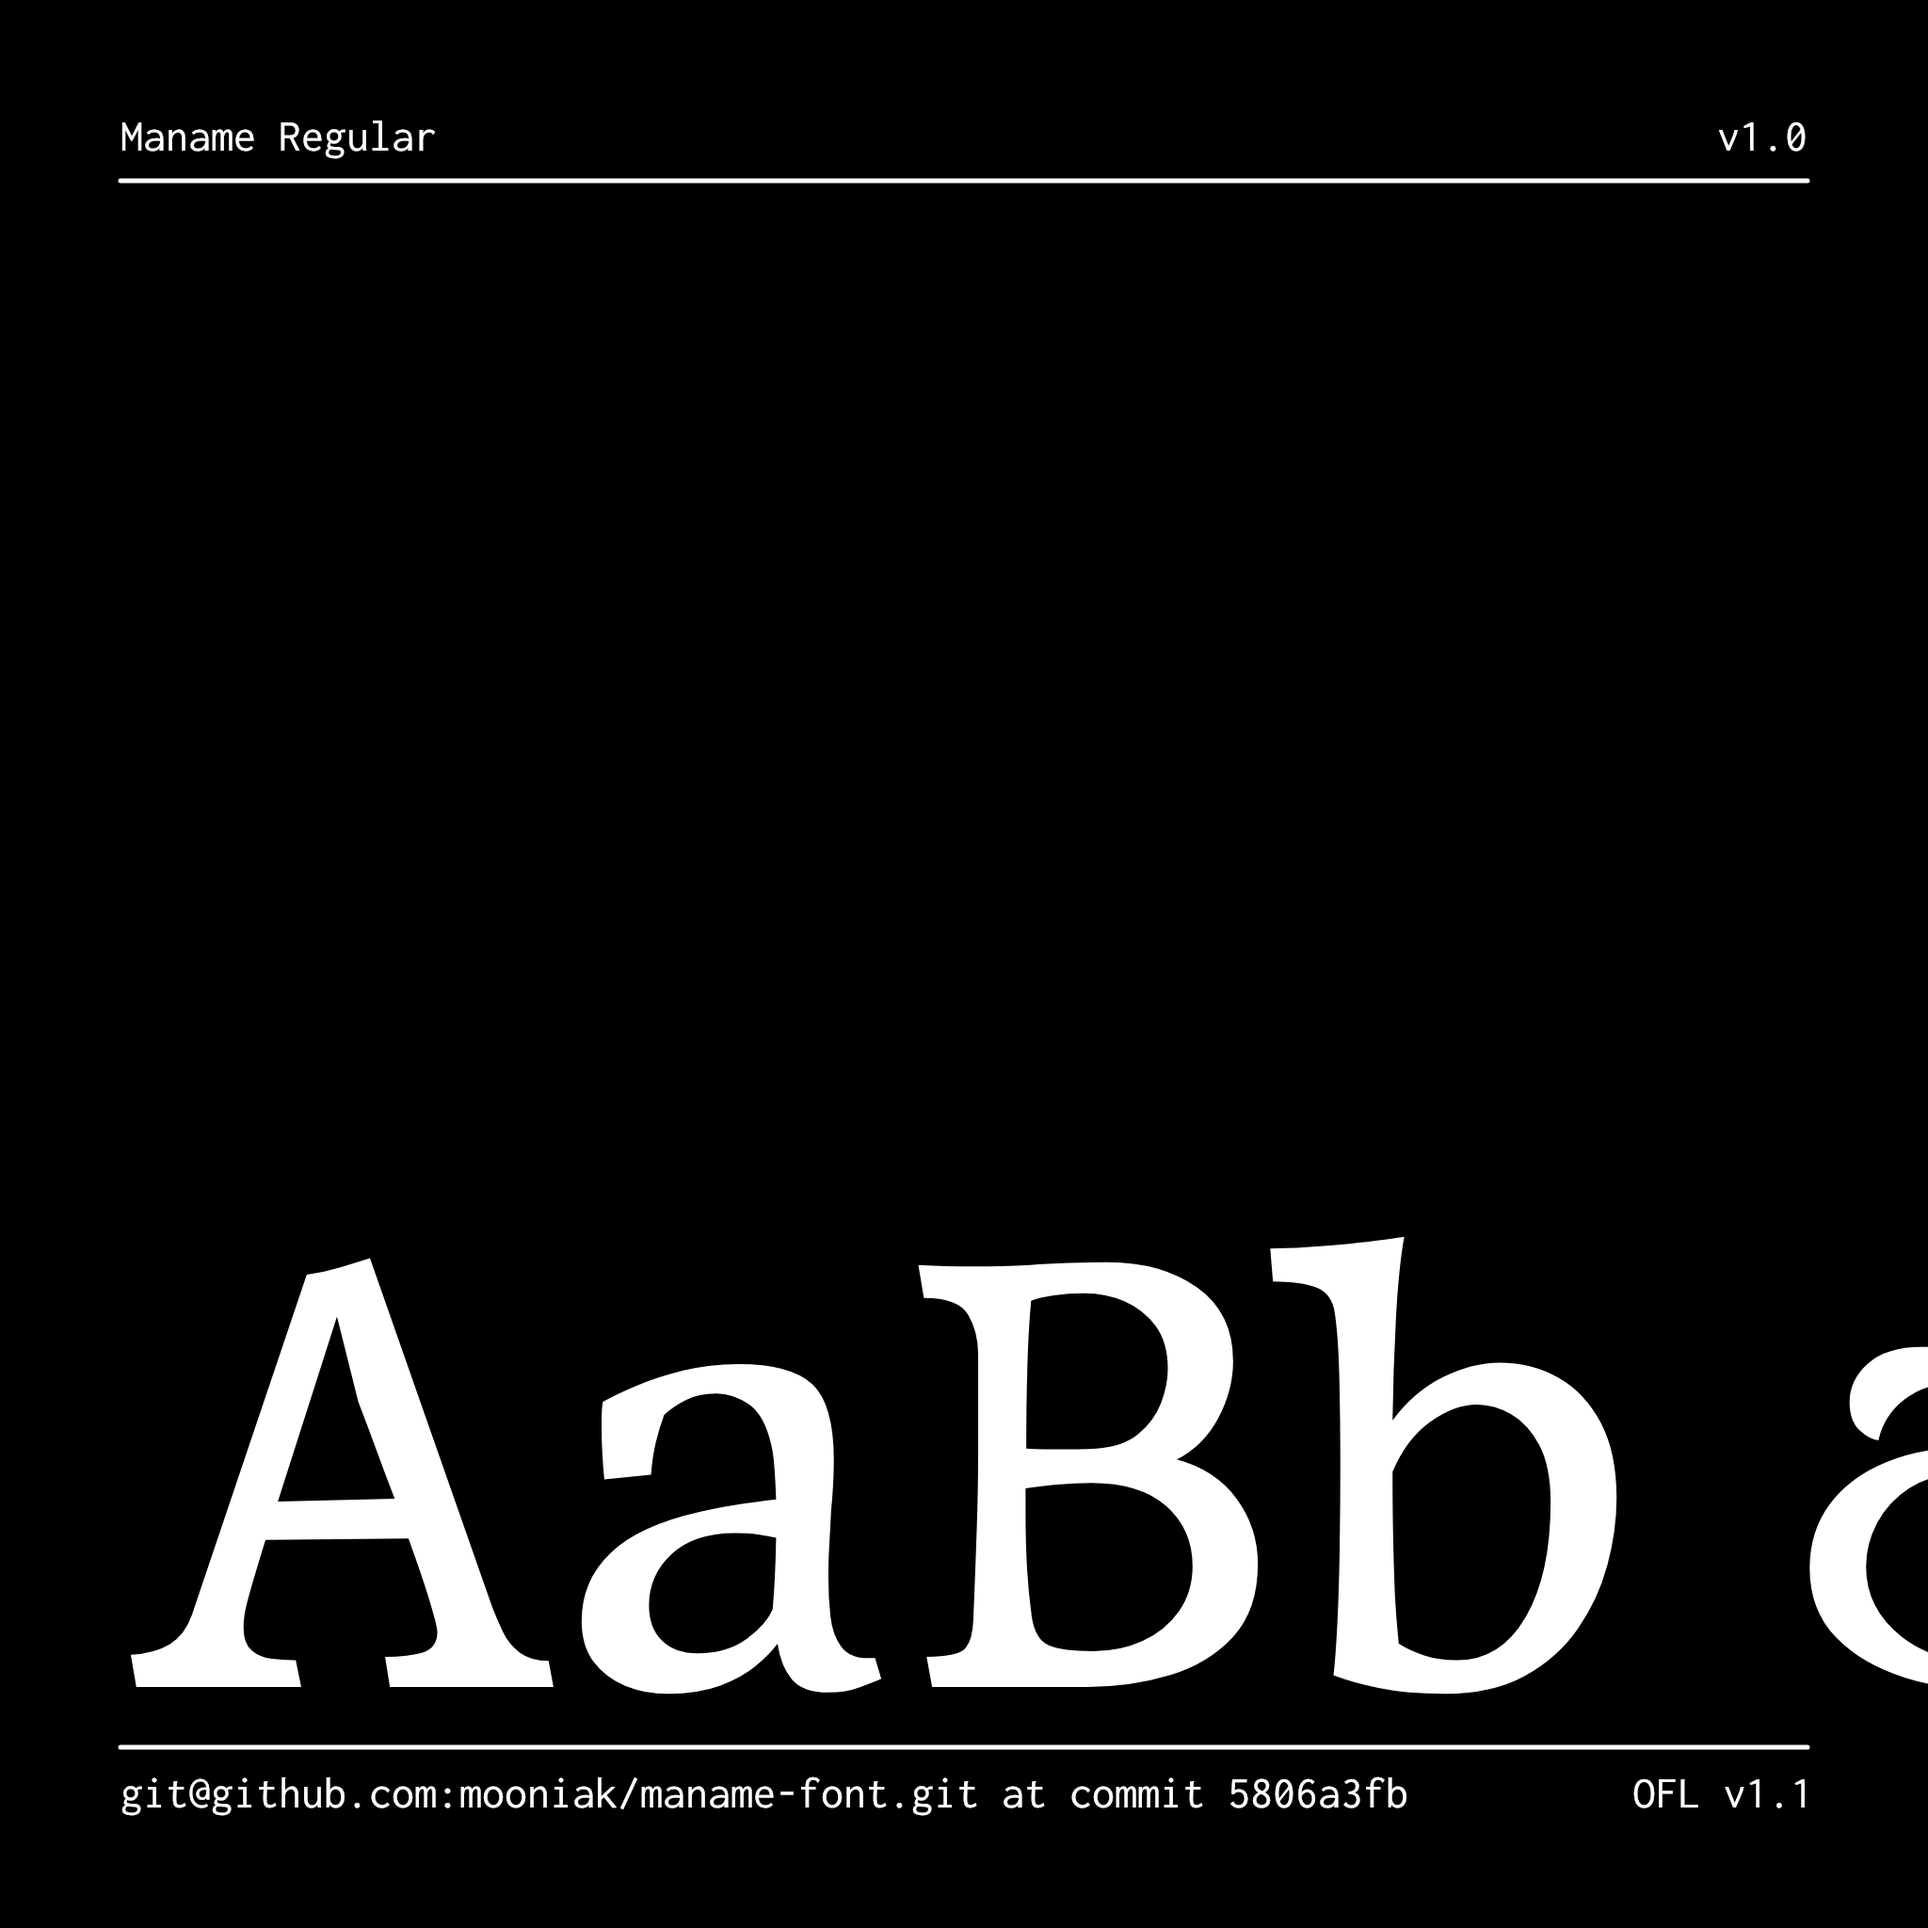
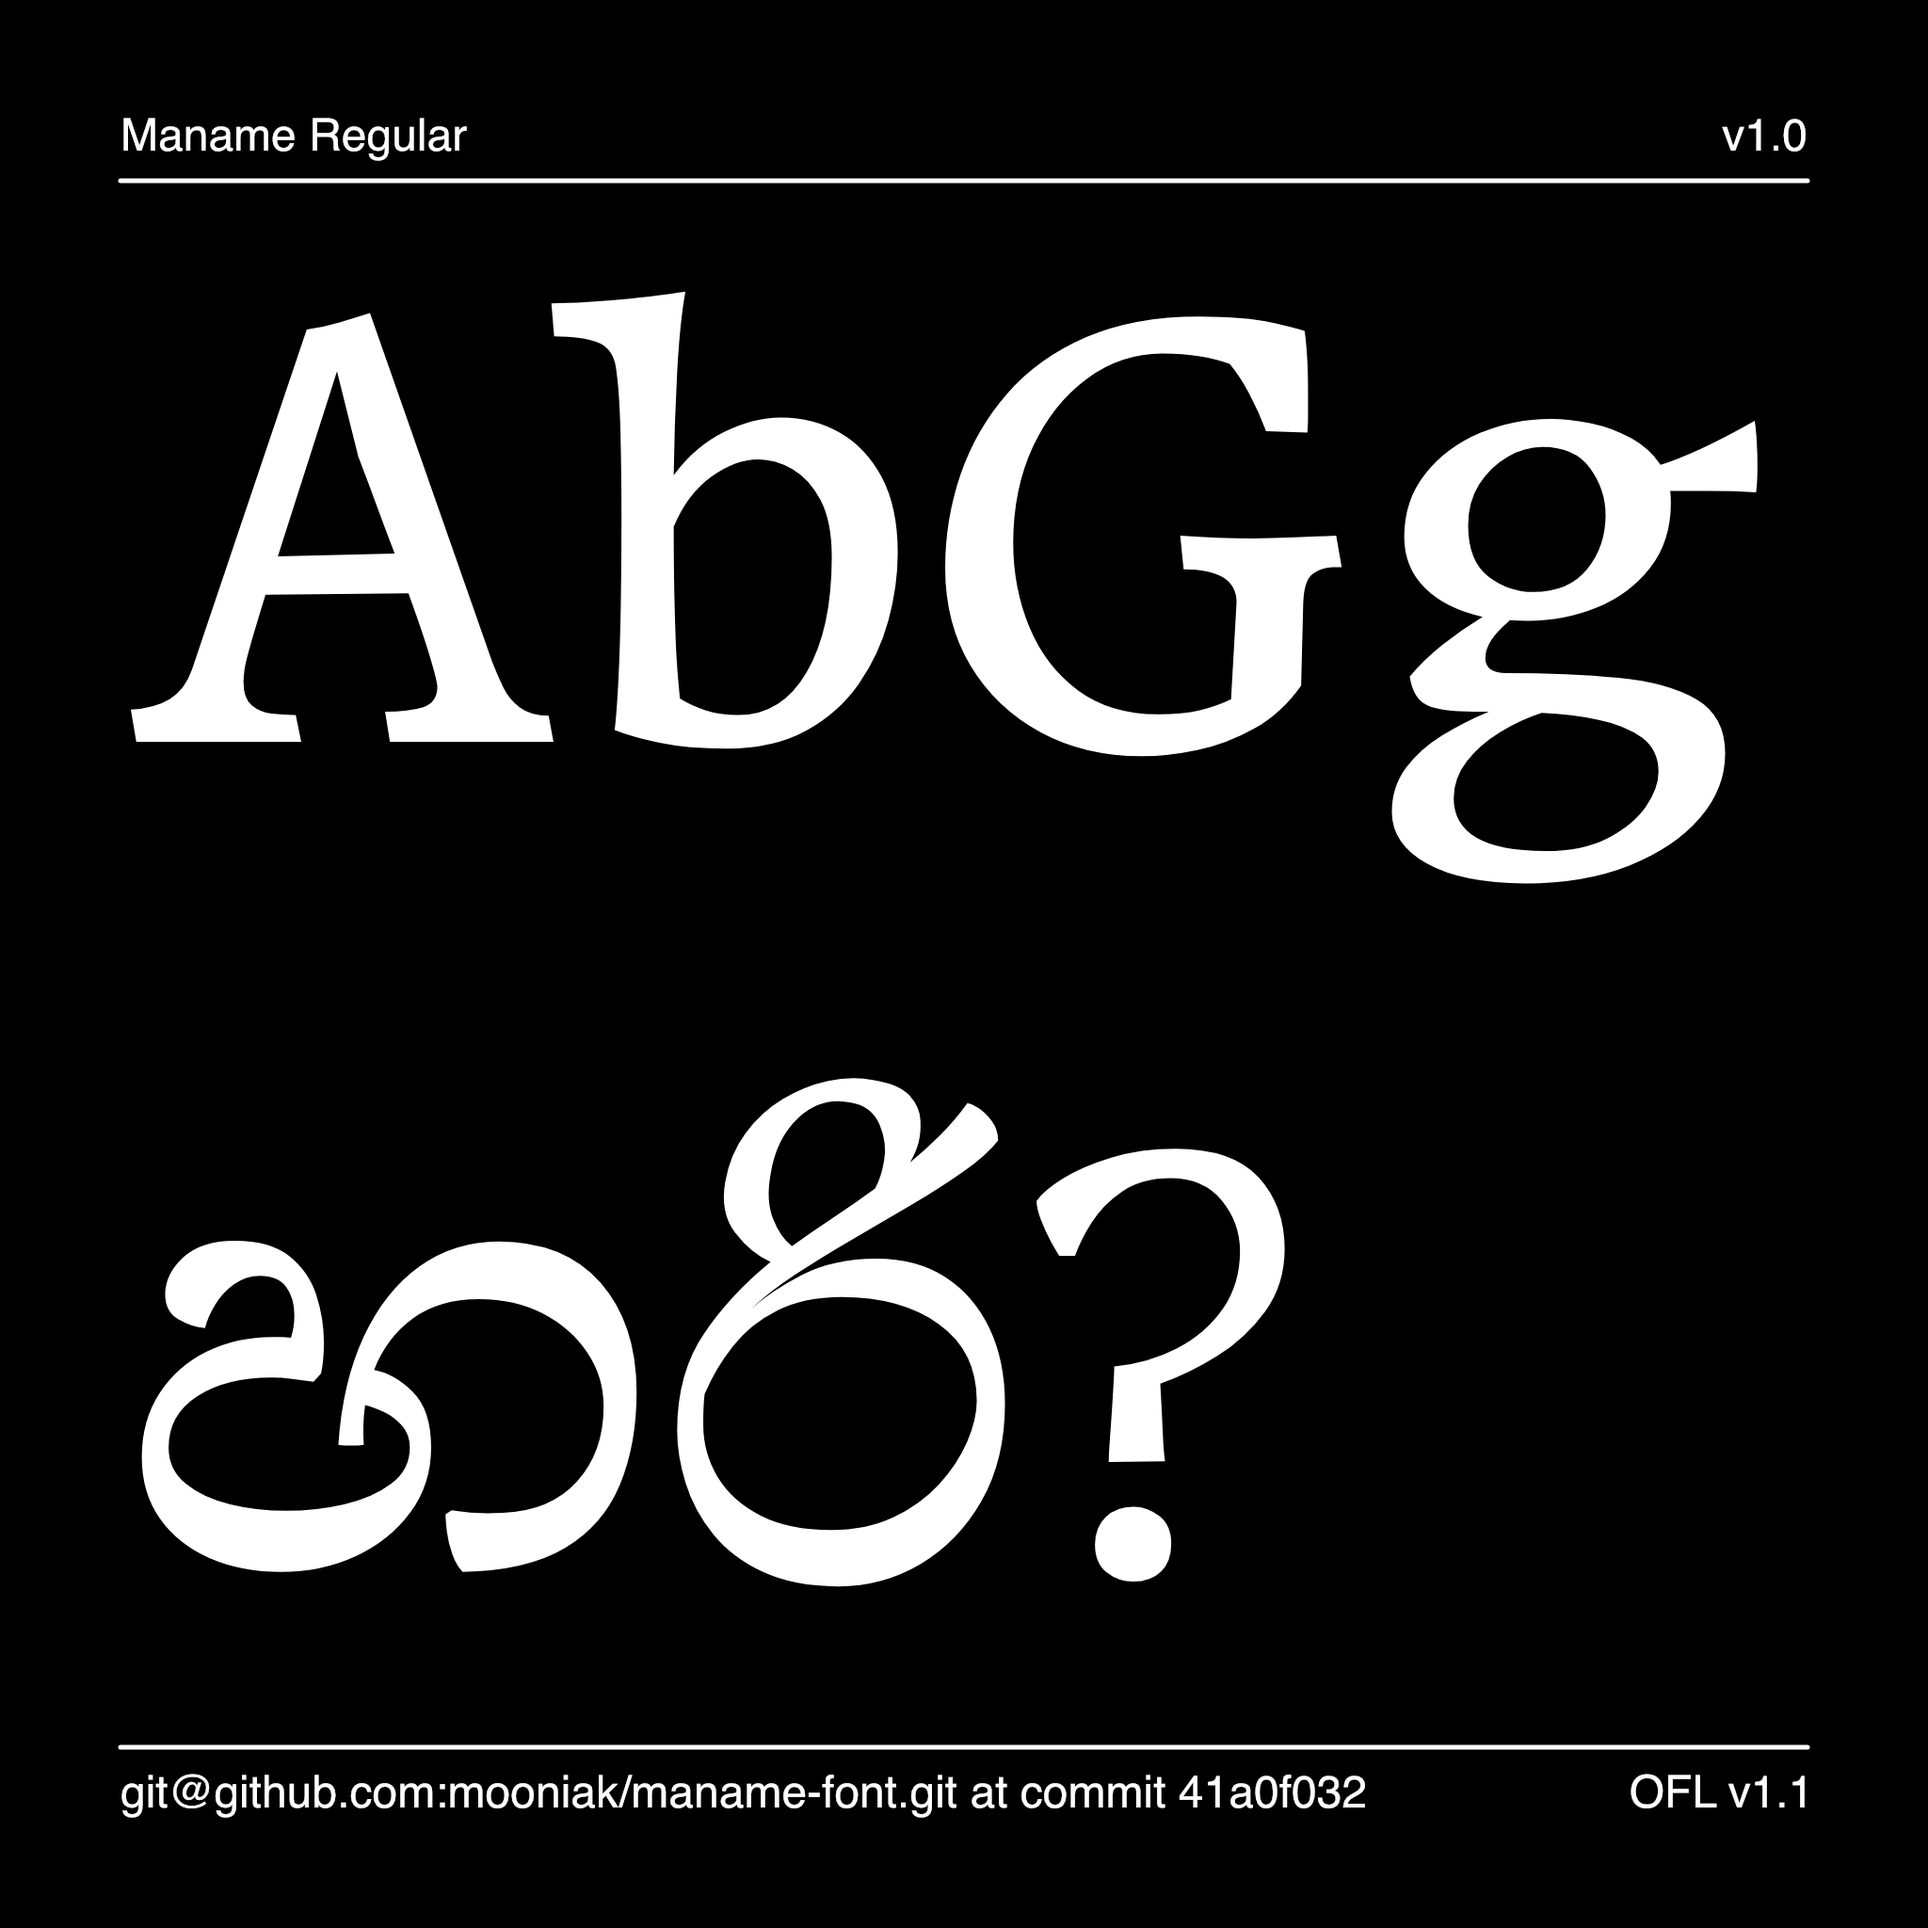
Update README and images

diff --git a/documentation/image1.py b/documentation/image1.py
@@ -18,13 +18,17 @@ import argparse
 WIDTH, HEIGHT, MARGIN, FRAMES = 2048, 2048, 128, 1
 FONT_PATH = "fonts/ttf/Maname-Regular.ttf"
 FONT_LICENSE = "OFL v1.1"
-AUXILIARY_FONT = "Inconsolata"
+AUXILIARY_FONT = "Helvetica"
 AUXILIARY_FONT_SIZE = 48
 
-BIG_TEXT = "AaBb අක"
+# Update BIG_TEXT for multiple lines
+
+BIG_TEXT_LINES = ["හරි?", "AbGg"]
 BIG_TEXT_FONT_SIZE = 730
 BIG_TEXT_SIDE_MARGIN = MARGIN * 1
-BIG_TEXT_BOTTOM_MARGIN = MARGIN * 2
+BIG_TEXT_BOTTOM_MARGIN = MARGIN * 3
+
+
 
 GRID_VIEW = False # Toggle this for a grid overlay
 
@@ -90,11 +94,10 @@ def draw_main_text():
     stroke(None)
     font(FONT_PATH)
     fontSize(BIG_TEXT_FONT_SIZE)
-    # Adjust this line to center main text manually.
-    # TODO: This should be done automatically when drawbot-skia
-    # has support for textBox() and FormattedString
-    #text(BIG_TEXT, ((WIDTH / 2) - MARGIN * 4.75, (HEIGHT / 2) - MARGIN * 2.5))
-    text(BIG_TEXT, (BIG_TEXT_SIDE_MARGIN, BIG_TEXT_BOTTOM_MARGIN))
+    y = BIG_TEXT_BOTTOM_MARGIN
+    for line in BIG_TEXT_LINES:
+        text(line, (BIG_TEXT_SIDE_MARGIN, y))
+        y += BIG_TEXT_FONT_SIZE * 1.2  # Adjust the line spacing as needed
 
 
 # Divider lines

diff --git a/README.md b/README.md
@@ -2,7 +2,40 @@
 
 Maname is a text typeface made for Sinhala script with quirky stroke modulation. Maname Latin is informed by the modulation of Sinhala companion and takes a versatlile lively forms.
 
-This project was orignally conceptualised and prototyped by Pathum Egodawatta as a superfamily with many styles and scripts in partial fulfilment for the requirements for the Master of Arts in Typeface Design (MATD) at the University of Reading, Department of Typography and Graphic Communication in 2016. Since then a selected Latin and Sinhala componats from the academic project were extended to include support for wider Latin charachter set and full Sinhala support under the name Maname.
+![Sample Image](documentation/image1.png)
 
-To support onging development of this project please head to Mooniak Patreon page or Pathum's funding page.
+Maname is a text typeface made for Sinhala script with quirky stroke modulation. Maname Latin is informed by the modulation of Sinhala companion and takes a versatlile lively forms.
 
+![Sample Image](documentation/image3.png)
+
+This project was orignally conceptualised and prototyped by Pathum Egodawatta as a superfamily with many styles and scripts in partial fulfilment for the requirements for the Master of Arts in Typeface Design (MATD) at the University of Reading, Department of Typography and Graphic Communication in 2016. Since then a selected Latin and Sinhala componats from the academic project were extended to include support for wider Latin charachter set and full Sinhala support under the name Maname. 
+
+To support onging development of this project please head to [Mooniak Patreon](https://www.patreon.com/mooniak) page. Or you can [tip Pathum](https://buymeacoffee.com/pathumego), so he can invest more resources into this project.
+
+![Sample Image](documentation/image2.png)
+
+
+
+## Building
+
+Fonts are built automatically by GitHub Actions - take a look in the "Actions" tab for the latest build.
+
+If you want to build fonts manually on your own computer:
+
+* `make build` will produce font files.
+* `make test` will run [FontBakery](https://github.com/googlefonts/fontbakery)'s quality assurance tests.
+* `make proof` will generate HTML proof files.
+
+The proof files and QA tests are also available automatically via GitHub Actions - look at https://mooniak.github.io/maname-font.git.
+
+
+## License
+
+This Font Software is licensed under the SIL Open Font License, Version 1.1.
+This license is available with a FAQ at
+https://scripts.sil.org/OFL
+
+
+## Repository Layout
+
+This font repository structure is inspired by [Unified Font Repository v0.3](https://github.com/unified-font-repository/Unified-Font-Repository), modified for the Google Fonts workflow.
